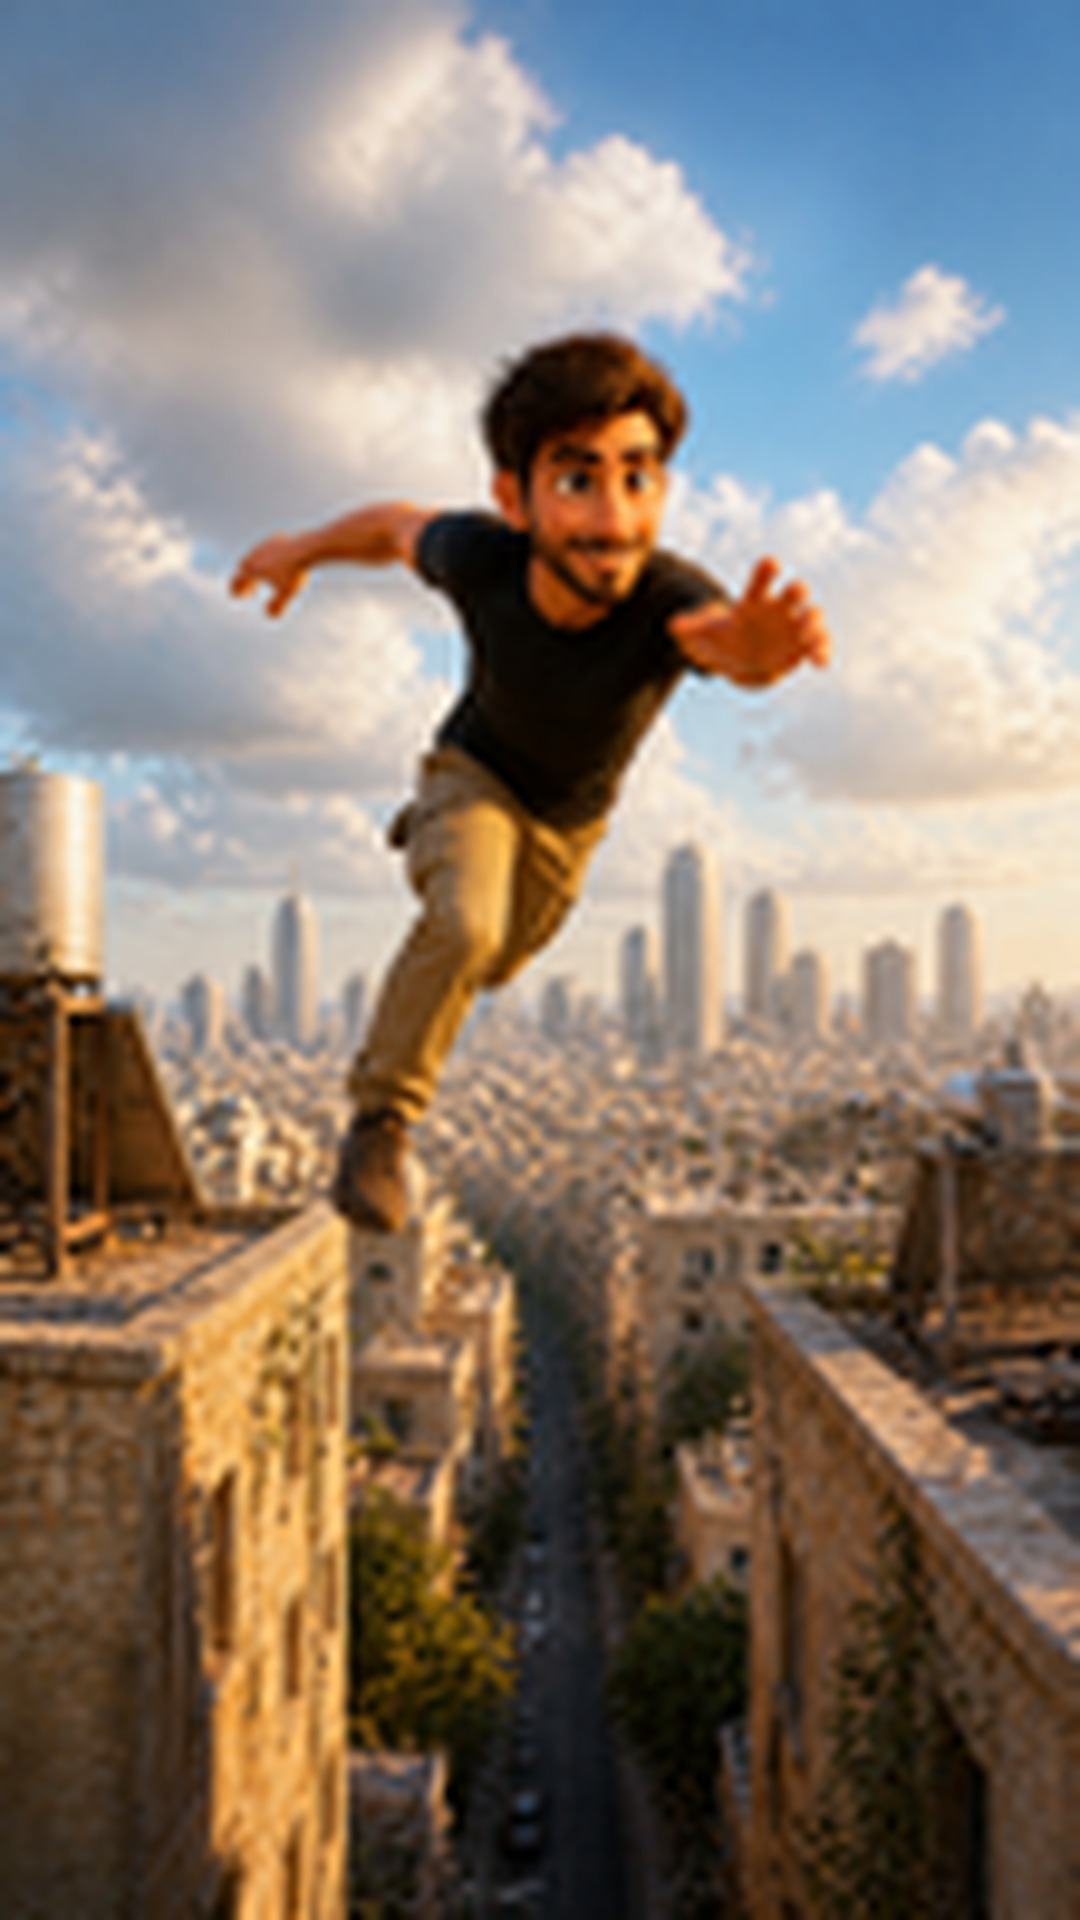
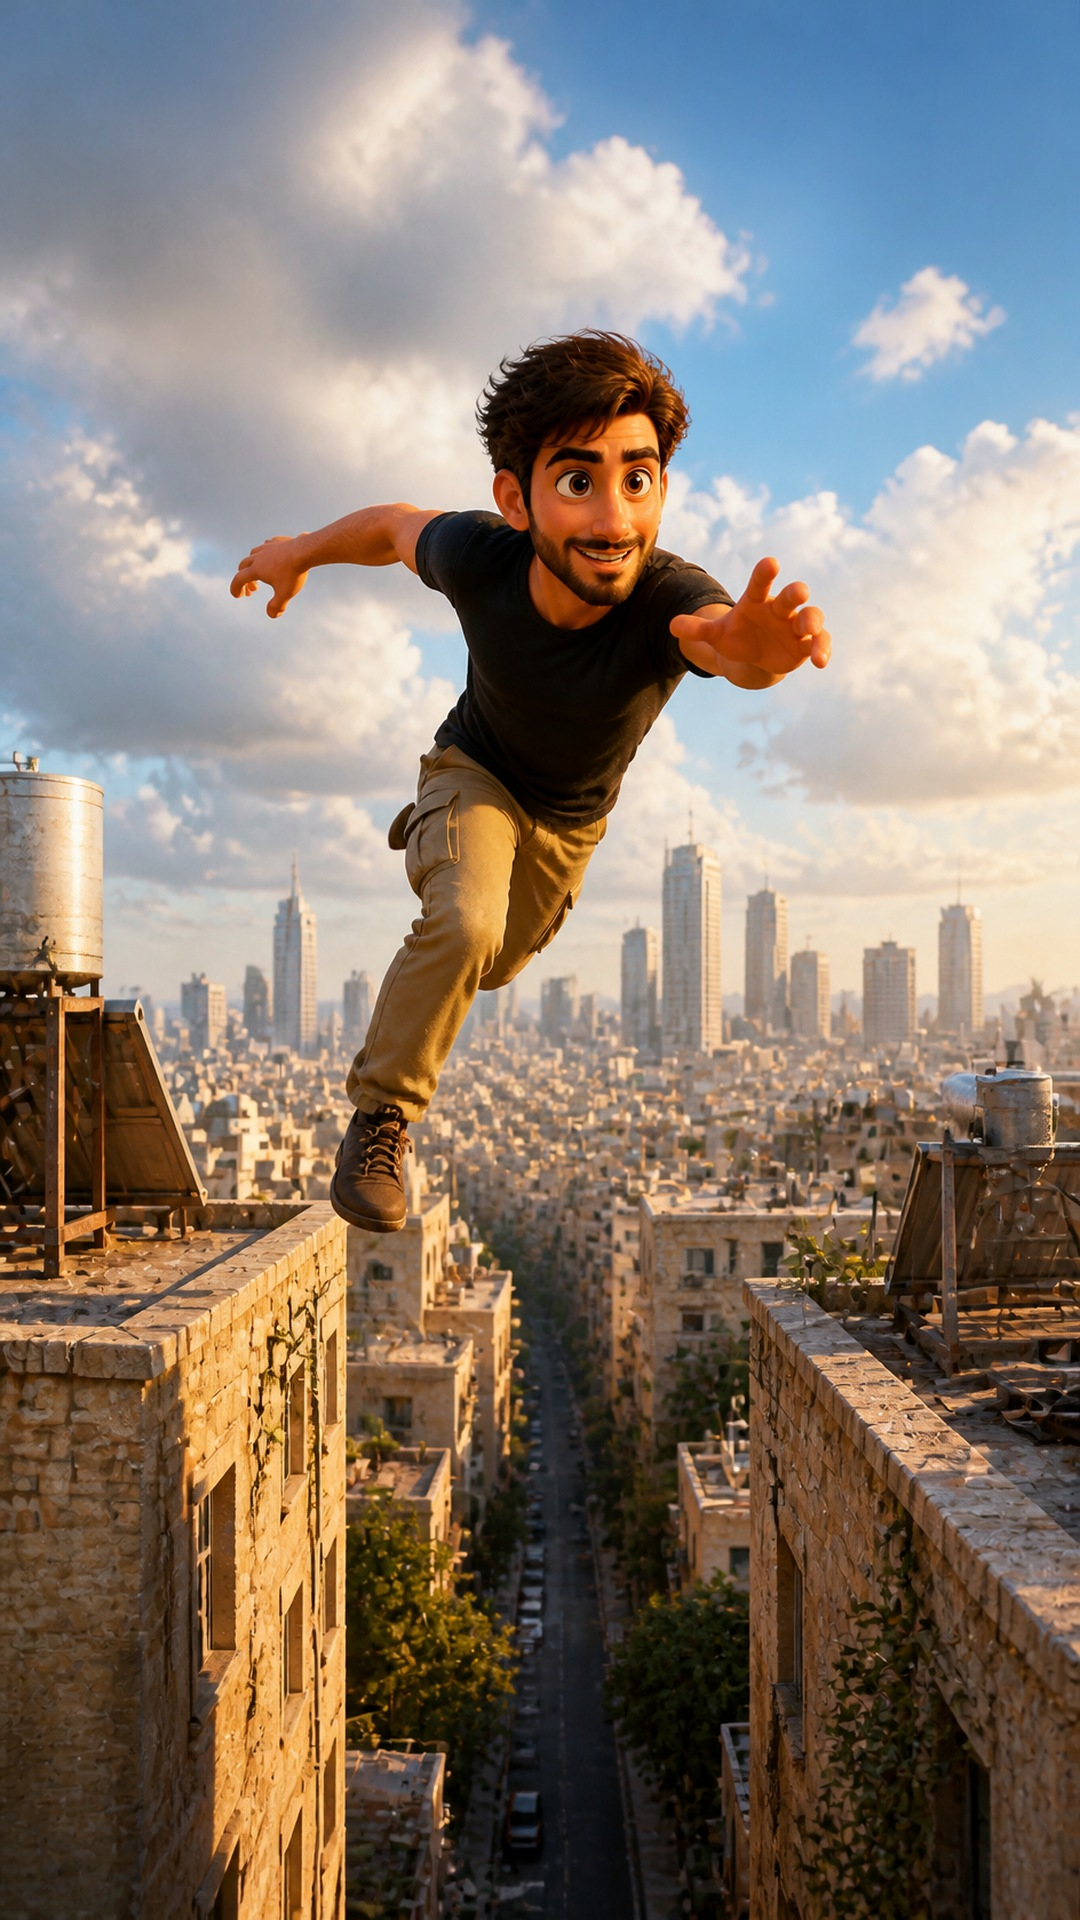
Final vote-run video with full-size Pixar-style shots
Claude-Session: https://claude.ai/code/session_018UQJf4i9fWTjVEJPFTqPwr

diff --git a/vote-run/index.html b/vote-run/index.html
@@ -14,16 +14,16 @@
     <div id="root" data-composition-id="main" data-start="0" data-duration="30" data-width="1080" data-height="1920">
       <div id="shots" data-composition-id="shots" data-composition-src="compositions/shots.html" data-start="0" data-duration="30" data-track-index="1" data-track-kind="graphics" data-width="1080" data-height="1920" style="z-index:1"></div>
       <div id="titles" data-composition-id="titles" data-composition-src="compositions/titles.html" data-start="0" data-duration="30" data-track-index="2" data-track-kind="graphics" data-width="1080" data-height="1920" style="z-index:2"></div>
-      <audio id="music" class="clip" src="assets/audio/music.wav" data-start="0" data-duration="30" data-track-index="3" data-volume="0.8"></audio>
-      <audio id="sfx-whoosh-1" class="clip" src="assets/sfx/whoosh.mp3" data-start="2.27" data-duration="0.57" data-track-index="5" data-volume="0.55"></audio>
-      <audio id="sfx-whoosh-2" class="clip" src="assets/sfx/whoosh-short.mp3" data-start="5.47" data-duration="0.57" data-track-index="5" data-volume="0.55"></audio>
-      <audio id="sfx-whoosh-3" class="clip" src="assets/sfx/whoosh.mp3" data-start="7.87" data-duration="0.57" data-track-index="5" data-volume="0.55"></audio>
-      <audio id="sfx-whoosh-4" class="clip" src="assets/sfx/whoosh-short.mp3" data-start="14.27" data-duration="0.57" data-track-index="5" data-volume="0.55"></audio>
-      <audio id="sfx-whoosh-5" class="clip" src="assets/sfx/whoosh.mp3" data-start="17.47" data-duration="0.57" data-track-index="5" data-volume="0.55"></audio>
-      <audio id="sfx-whoosh-6" class="clip" src="assets/sfx/whoosh-short.mp3" data-start="20.67" data-duration="0.57" data-track-index="5" data-volume="0.55"></audio>
-      <audio id="sfx-whoosh-7" class="clip" src="assets/sfx/whoosh.mp3" data-start="23.07" data-duration="0.57" data-track-index="5" data-volume="0.55"></audio>
-      <audio id="sfx-impact-1" class="clip" src="assets/sfx/impact-bass-1.mp3" data-start="11.2" data-duration="2.1" data-track-index="6" data-volume="0.7"></audio>
-      <audio id="vo" class="clip" src="assets/audio/vo_take1.mp3" data-start="26.7" data-duration="2.8" data-track-index="4" data-volume="1"></audio>
+      <audio id="music" class="clip" src="assets/audio/music.wav" data-start="0" data-duration="30" data-track-index="3" data-volume="1.15"></audio>
+      <audio id="sfx-whoosh-1" class="clip" src="assets/sfx/whoosh.mp3" data-start="2.27" data-duration="0.57" data-track-index="5" data-volume="0.75"></audio>
+      <audio id="sfx-whoosh-2" class="clip" src="assets/sfx/whoosh-short.mp3" data-start="5.47" data-duration="0.57" data-track-index="5" data-volume="0.75"></audio>
+      <audio id="sfx-whoosh-3" class="clip" src="assets/sfx/whoosh.mp3" data-start="7.87" data-duration="0.57" data-track-index="5" data-volume="0.75"></audio>
+      <audio id="sfx-whoosh-4" class="clip" src="assets/sfx/whoosh-short.mp3" data-start="14.27" data-duration="0.57" data-track-index="5" data-volume="0.75"></audio>
+      <audio id="sfx-whoosh-5" class="clip" src="assets/sfx/whoosh.mp3" data-start="17.47" data-duration="0.57" data-track-index="5" data-volume="0.75"></audio>
+      <audio id="sfx-whoosh-6" class="clip" src="assets/sfx/whoosh-short.mp3" data-start="20.67" data-duration="0.57" data-track-index="5" data-volume="0.75"></audio>
+      <audio id="sfx-whoosh-7" class="clip" src="assets/sfx/whoosh.mp3" data-start="23.07" data-duration="0.57" data-track-index="5" data-volume="0.75"></audio>
+      <audio id="sfx-impact-1" class="clip" src="assets/sfx/impact-bass-1.mp3" data-start="11.2" data-duration="2.1" data-track-index="6" data-volume="0.95"></audio>
+      <audio id="vo" class="clip" src="assets/audio/vo_take1.mp3" data-start="26.7" data-duration="2.8" data-track-index="4" data-volume="1.5"></audio>
     </div>
     <script>
       window.__timelines = window.__timelines || {};

diff --git a/vote-run/compositions/shots.html b/vote-run/compositions/shots.html
@@ -5,9 +5,12 @@
     .cam { position: absolute; inset: 0; will-change: transform; }
     .cam img { position: absolute; left: 0; top: 0; width: 1080px; height: 1920px; object-fit: cover; }
     #shots-flash { position: absolute; inset: 0; background: #fff8e6; opacity: 0; }
-    #shots-draft {
-      position: absolute; top: 176px; left: 40px; padding: 8px 18px 10px; border-radius: 12px;
-      background: rgba(10, 20, 50, 0.6); color: #fff; font: 700 30px "Rubik", sans-serif; direction: rtl;
+    @font-face { font-family: "Rubik"; font-weight: 900; src: url("assets/fonts/rubik-hebrew-900-normal.woff2") format("woff2"); unicode-range: U+0590-05FF, U+200C-2010, U+20AA, U+25CC, U+FB1D-FB4F; }
+    #s8-sign {
+      position: absolute; left: 160px; top: 110px; width: 720px; height: 350px;
+      display: flex; align-items: center; justify-content: center;
+      font: 900 200px/1 "Rubik", sans-serif; color: #0038b8; direction: rtl;
+      transform: rotate(1.2deg);
     }
   </style>
   <div id="root" data-composition-id="shots" data-start="0" data-duration="30" data-width="1080" data-height="1920">
@@ -33,7 +36,7 @@
       <div id="s7-cam" class="cam"><img id="s7-img" src="assets/shots/7.jpg" alt="" data-var-src="shot7" /></div>
     </div>
     <div id="s8" class="clip shot" data-start="20.8" data-duration="2.4" data-track-index="8">
-      <div id="s8-cam" class="cam"><img id="s8-img" src="assets/shots/8.jpg" alt="" data-var-src="shot8" /></div>
+      <div id="s8-cam" class="cam"><img id="s8-img" src="assets/shots/8.jpg" alt="" data-var-src="shot8" /><div id="s8-sign">קלפי</div></div>
     </div>
     <div id="s9" class="clip shot" data-start="23.2" data-duration="3.2" data-track-index="9">
       <div id="s9-cam" class="cam"><img id="s9-img" src="assets/shots/9.jpg" alt="" data-var-src="shot9" /></div>
@@ -42,7 +45,6 @@
       <div id="s10-cam" class="cam"><img id="s10-img" src="assets/shots/10.jpg" alt="" data-var-src="shot10" /></div>
     </div>
     <div id="shots-flash" class="clip" data-start="0" data-duration="30" data-track-index="11" data-layout-ignore></div>
-    <div id="shots-draft" class="clip" data-start="0" data-duration="30" data-track-index="12">טיוטה · תצוגות מקדימות</div>
   </div>
   <script>
     const tl = gsap.timeline({ paused: true });
